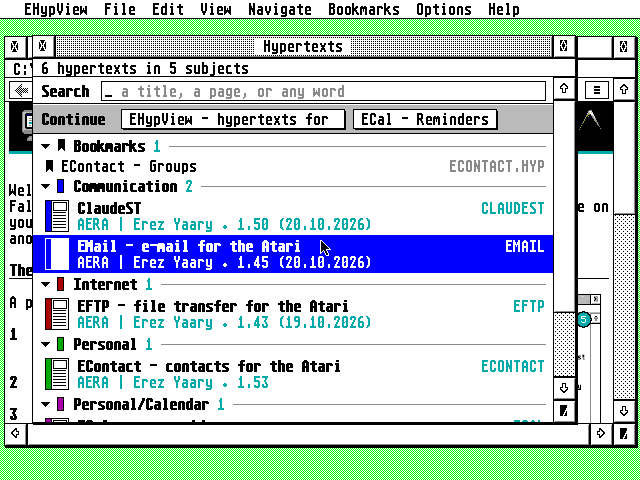
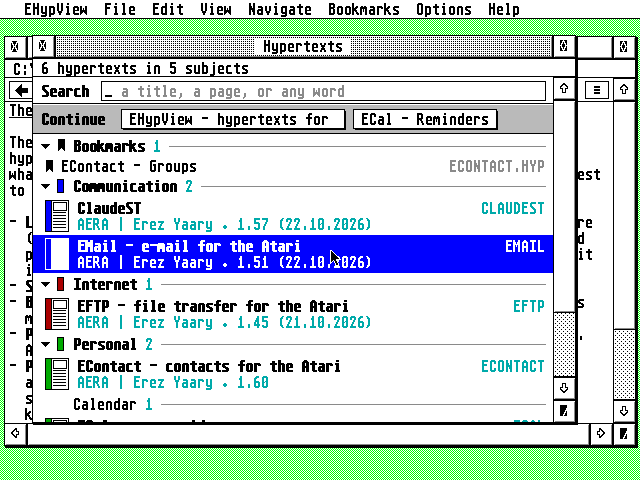
Docs: README, guide and pictures true to 1.20
- The pictures taken again (make shots): the library shows a subject's
  part under it (Calendar under Personal, 1.18), Settings a folder longer
  than its field (5.4), and the guide's front page the viewer page as the
  guide has it now.
- The crash catcher: bombs 2 to 8 and 11 (line F), and TOS's record of
  bombs it showed instead, offered at the next start.
- EHYPVIEW.INF: an empty line after each setting (6.1).
- The guide's accessory memory as common/ui/accmem.c takes it.
- On a 1 MB ST the accessory loads beside ECal's or EContact's (acc_all
  on ST-1: 105 and 64 KB of its own).
- Tests: common/tests/dialog in make test; gui-test's long field, on the
  ST too.

Claude-Session: https://claude.ai/code/session_01X65qqjLaZUDt3o37EHtGdu

diff --git a/README.md b/README.md
@@ -80,7 +80,9 @@ and the index stay; an index from an older EHypView that the new one can't read 
 own ColdFire build is still to come, see the [roadmap](docs/DESIGN.md#roadmap)); TOS, EmuTOS, MagiC,
 or MiNT (MultiTOS, XaAES, N.AES); a screen 640 pixels wide or more (in ST low and other screens 320
 pixels wide, the accessory still shows the pages other programs ask for, but doesn't open from the
-Desk menu). NVDI, SpeedoGDOS or another GDOS is optional, for more fonts.
+Desk menu). NVDI, SpeedoGDOS or another GDOS is optional, for more fonts. On a 1 MB ST the accessory
+also loads beside ECal's or EContact's (the ST editions), with less memory of its own (64 to 105 KB
+instead of 160 KB). Of those two, only one fits on a 1 MB ST.
 
 **Under TOS, put Atari's `FOLDR100.PRG` first in `AUTO`**, renamed for more room (`FOLDR400.PRG`).
 TOS keeps an entry in a small internal pool for every folder a program or accessory has looked
@@ -222,7 +224,7 @@ accessory from the next boot, and its Font dialog lists the ones it knows "from 
 **Options > Settings...** (^,; in the accessory, the toolbar's ≡ menu) shows what `EHYPVIEW.INF` holds,
 on two pages, as EMail's and ECal's Settings do. OK keeps the changes; Cancel, Esc and Undo forget them.
 
-![The Settings dialog over the viewer: the Library page, with the library's layout and the folders to look in as well](docs/settings.png)
+![The Settings dialog over the library: the Library page, with the library's layout and the folders to look in as well, the first one longer than its field shows](docs/settings.png)
 
 - **General:** when the accessory looks through the library (`START=`): when first opened, at start,
   after a minute or after 5 minutes; and EHypView's folder (`FOLDER=`), where the index is kept.
@@ -255,9 +257,11 @@ The font stays in **View > Font...**, as in ECal and EMail, and the bookmarks in
   Desk menu brings the program's window to the front, and a font chosen in the program is the
   accessory's too the next time it opens. Under MagiC or MiNT, where the accessory runs beside the
   programs, starting `EHYPVIEW.PRG` opens the accessory instead.
-- **If the program crashes** (what would be 2 to 8 bombs), it says so, writes what happened to
-  `CRASH.LOG` next to `EHYPVIEW.PRG` and quits, leaving the Atari running. Under MiNT or MagiC, and in
-  the accessory, there is no `CRASH.LOG`.
+- **If the program crashes** (what would be 2 to 8 bombs, or 11 for an FPU instruction on an Atari
+  without one), it says so, writes what happened to `CRASH.LOG` next to `EHYPVIEW.PRG` and quits,
+  leaving the Atari running. When TOS shows the bombs instead, and they went off in EHypView, the next
+  start finds TOS's record of them, adds it to `CRASH.LOG` and offers to show it.
+  Under MiNT or MagiC, and in the accessory, there is no `CRASH.LOG`.
 
 ### With other programs
 
@@ -278,8 +282,8 @@ The font stays in **View > Font...**, as in ECal and EMail, and the bookmarks in
 ### Where its files are
 
 - **`EHYPVIEW.INF`**, the settings, is in the root of the boot drive, where the accessory always finds
-  it. It has a note above each setting, and EHypView keeps the notes, and anything it doesn't know,
-  when it writes the file. An `EHYPVIEW.INF` next to the program, from an older EHypView, is copied to
+  it. Each setting has a note above it and an empty line after it, and EHypView keeps the notes, and
+  anything it doesn't know, when it writes the file. An `EHYPVIEW.INF` next to the program, from an older EHypView, is copied to
   the root the first time.
 - **`FOLDER=`** in it names EHypView's folder, which holds the index of the hypertexts
   (`EHYPVIEW.IDX`) and `EHYPVIEW.FNT`. `EHYPVIEW.PRG` uses the folder it was started from and writes
@@ -313,6 +317,7 @@ make atari     # build/hatari/: EHYPVIEW.PRG, EHYPVIEW.ACC, EHVCHECK.PRG;
 make help HCP=/path/to/hcp   # binary/EHYPVIEW.HYP and .REF from docs/GUIDE.md
 make dist      # dist/: a release's files, each on its own and in EHYPVIEW-x.y.zip
 make icons     # draw the icon again (tools/icon/; python3-pil for the PNGs)
+make shots HCP=/path/to/hcp   # the README's pictures in docs/ and the guide's WINDOW.IMG, in Hatari
 ```
 
 The Atari programs are built the same way as ECal: with Ubuntu's stock m68k compiler, for the 68000
@@ -326,9 +331,9 @@ the AERA programs' shared code, a copy of [AERA-Atari](https://github.com/whompe
 **The guide.** `docs/GUIDE.md` is the source of `EHYPVIEW.HYP`: `tools/mkhelp.py` (EContact's and
 EMail's) makes ST-Guide's source from it, `common/tools/helpfront.py` gives it the AERA programs' front
 page from `docs/front.json`, and `hcp` compiles it; `common/tools/build-hcp.sh DIR` builds `hcp`. The
-front page's window picture, `docs/help/WINDOW.IMG`, is committed: when the viewer changes, take a
-Hatari screenshot of it and make the picture again with `common/tools/helpfront.py thumb` (the line is
-in CLAUDE.md). EHypView's own reader checks every page of the result (`hypdump check`).
+front page's window picture, `docs/help/WINDOW.IMG`, is committed: when the viewer changes, `make shots`
+takes it again in Hatari (`common/tools/helpfront.py thumb`), with the README's pictures: the Falcon
+with the AERA programs' guides from their latest releases (`tests/run_gui.py`, `SHOT_STEPS`). EHypView's own reader checks every page of the result (`hypdump check`).
 
 `build/host/hypdump` inspects any hypertext:
 
@@ -399,7 +404,8 @@ make colour-test  # pictures and coloured text in every screen mode, pixel by pi
 ```
 
 - **`make test`** runs the unit tests (`tests/test_*.c`: the core, the scanner and index on a real
-  folder tree, the viewer, the library, the menu tree, fonts) and the golden tests
+  folder tree, the viewer, the library, the menu tree, fonts; and common/tests/dialog's, the dialog
+  loop and its fields that hold more than they show) and the golden tests
   (`tests/run_golden.sh`): the text of the test hypertexts must match `hcp`'s own rendering, an
   independent implementation, and their links, index and header the reviewed files in
   `tests/expected/`.
@@ -414,8 +420,10 @@ make colour-test  # pictures and coloured text in every screen mode, pixel by pi
   hypertext three folders down), back, help, the library and both searches, fonts and the font
   selector, Settings (Esc and Undo cancel it), the accessory, and the program and accessory side by
   side. The mouse run (Xvfb and xdotool; skipped without them) clicks links, the right button, the
-  menus, the About box and Settings: its START= popup, its Library page's folders, the alert for one
-  that isn't there, and the library looked through again; `EHYPVIEW.INF` must then hold them. The
+  menus, the About box and Settings: its START= popup, its Library page's folders (one longer than
+  its field shows, edited at its start and end), the alert for one that isn't there, and the library
+  looked through again; `EHYPVIEW.INF` must then hold them. The long folder is typed again on the
+  4 MB ST in mono with TOS 1.04 (`ST:mono`), with ⇧Left, ⇧Right and ⇧Clr/Home. The
   viewer reports what it does through NatFeats, and each step waits for it. `make accnvdi-test`, with Erez's NVDI
   (`AERA_WITH_NVDI=1`, `common/tools/machines.py`; skipped without it): the accessory picks a GDOS font in
   its own selector, by keyboard, is closed and opened again, and draws a page another program asked for

diff --git a/docs/GUIDE.md b/docs/GUIDE.md
@@ -199,8 +199,10 @@ The font is chosen with **View > Font...**, and bookmarks from the Bookmarks men
   in short steps between events, never holding the machine for long, and waits while you use the
   mouse or keyboard. A help request naming a file, as the AERA programs' Help keys do, is answered at
   once.
-- **Memory.** The accessory takes its memory when it loads: a third of the largest free block (a
-  quarter when there is no TT RAM), at most 2 MB, and 64 to 128 KB of ST RAM for the pictures.
+- **Memory.** The accessory takes its memory when it loads, as every AERA accessory does: the
+  first time 160 KB (2 MB in TT RAM), never more than a quarter of what is free where 1 MB or more
+  is, else half; after that what it measured it needs (`MEMKB=`), or what you set (`HEAPKB=`).
+  Where its memory is TT RAM, it takes 64 to 128 KB of ST RAM for the pictures as well.
 - **With both installed,** they never work at once. While `EHYPVIEW.PRG` runs, **EHypView** in the
   Desk menu brings the program's window to the front, and a font chosen in the program is the
   accessory's too the next time it opens. Under MagiC or MiNT, where the accessory runs beside
@@ -251,8 +253,8 @@ Most menu items have a key, shown beside them in the menu.
 ## EHYPVIEW.INF
 
 The settings are in `EHYPVIEW.INF` in the root of the boot drive, where the accessory always finds
-them. It is plain text with a note above each setting, and EHypView keeps the notes, and anything
-it doesn't know, when it writes the file. [Settings](#settings) changes most of it.
+them. It is plain text: each setting has a note above it and an empty line after it, and EHypView
+keeps the notes, and anything it doesn't know, when it writes the file. [Settings](#settings) changes most of it.
 
 | Setting | What it is |
 |---|---|
@@ -281,9 +283,10 @@ are used as ST-Guide uses them. Its `DEFHYP` and `HYPTOP` aren't: EHypView start
 - **Help in another program does nothing.** The accessory must be loaded (in the root of the boot
   drive) or, under MagiC or MiNT, the program running. Programs that look for ST-Guide find EHypView
   when the accessory is called `ST-GUIDE.ACC`.
-- **If the program crashes** (what would be 2 to 8 bombs), it says so, writes what happened to
-  `CRASH.LOG` next to `EHYPVIEW.PRG` and quits, leaving the Atari running. The next time it starts it
-  offers to show the report.
+- **If the program crashes** (what would be 2 to 8 bombs, or 11 for an FPU instruction on an Atari
+  without one), it says so, writes what happened to `CRASH.LOG` next to `EHYPVIEW.PRG` and quits,
+  leaving the Atari running. When TOS shows the bombs instead, and they went off in EHypView, the next
+  start finds TOS's record of them, adds it to `CRASH.LOG` and offers to show it.
 - **In ST low** (320 pixels wide) EHypView says the screen is too narrow: use ST medium or more. The
   accessory still shows the pages other programs ask for there.
 - **"The system has no window left for EHypView."** GEM has only a few windows to share between

diff --git a/CLAUDE.md b/CLAUDE.md
@@ -62,9 +62,10 @@ These come from AERA-Atari's repo template and are the same in every app's CLAUD
   `binary/`; the icons are committed in `icons/`). The first release was 1.0.
 - The guide is `docs/GUIDE.md` (tools/mkhelp.py, EContact's) with the family's front page
   (guidelines 4.3, `docs/front.json`, `common/tools/helpfront.py`). Its window picture
-  `docs/help/WINDOW.IMG` is committed: when the viewer changes, take a Hatari screenshot of a page
-  of the guide in the program (640 x 480) and make it again with
-  `python3 common/tools/helpfront.py thumb SHOT.PNG docs/help/WINDOW.IMG 4,36,632,410 32,90 210,68 330,206 412,90 596,90`.
+  `docs/help/WINDOW.IMG` is committed: when the viewer changes, `make shots HCP=...` takes it again
+  (a Hatari screenshot of a page of the guide, 640 x 480, made into it with
+  `python3 common/tools/helpfront.py thumb SHOT.PNG docs/help/WINDOW.IMG 4,36,632,410 32,90 210,68 330,206 412,90 596,90`),
+  with the README's pictures in docs/ (tests/run_gui.py's SHOT_STEPS).
 - Settings (src/gem/settings.c, ^,) is EMail's layout: pages on the left, run by the shared
   `dlg_do`. It edits `START=`, `LIBRARY=` and `PATHS=`; the font stays in View > Font... as in ECal
   and EMail.
